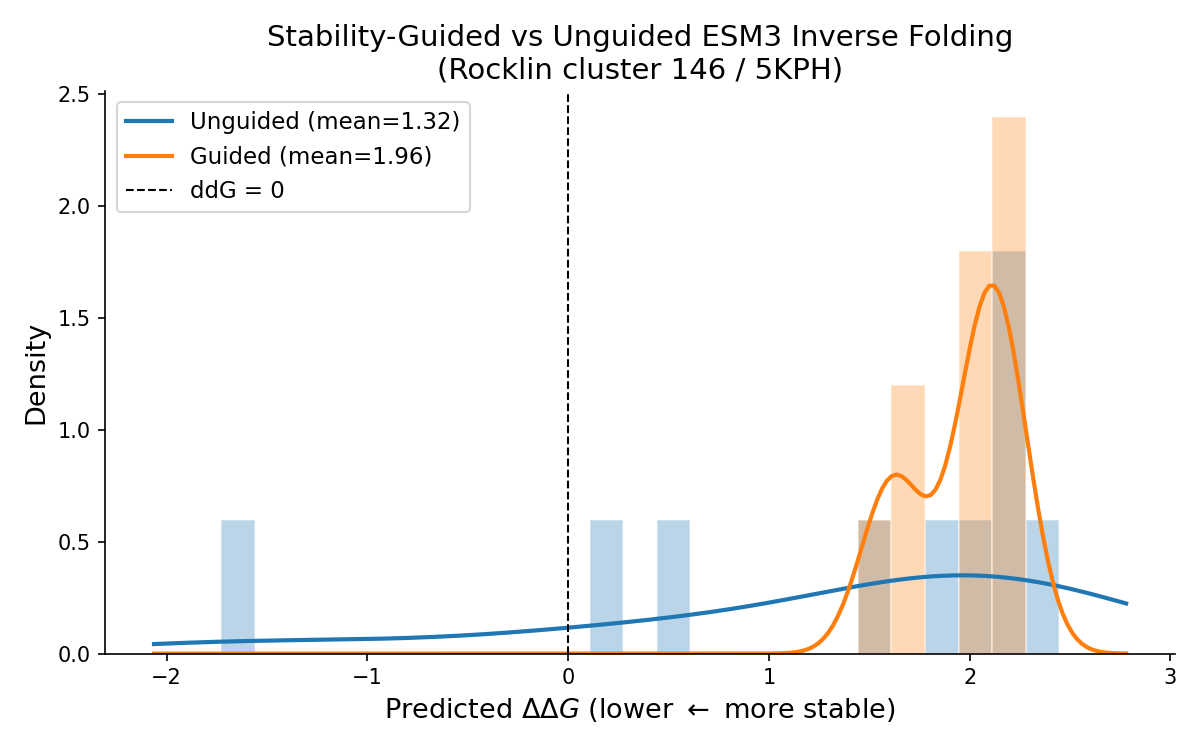
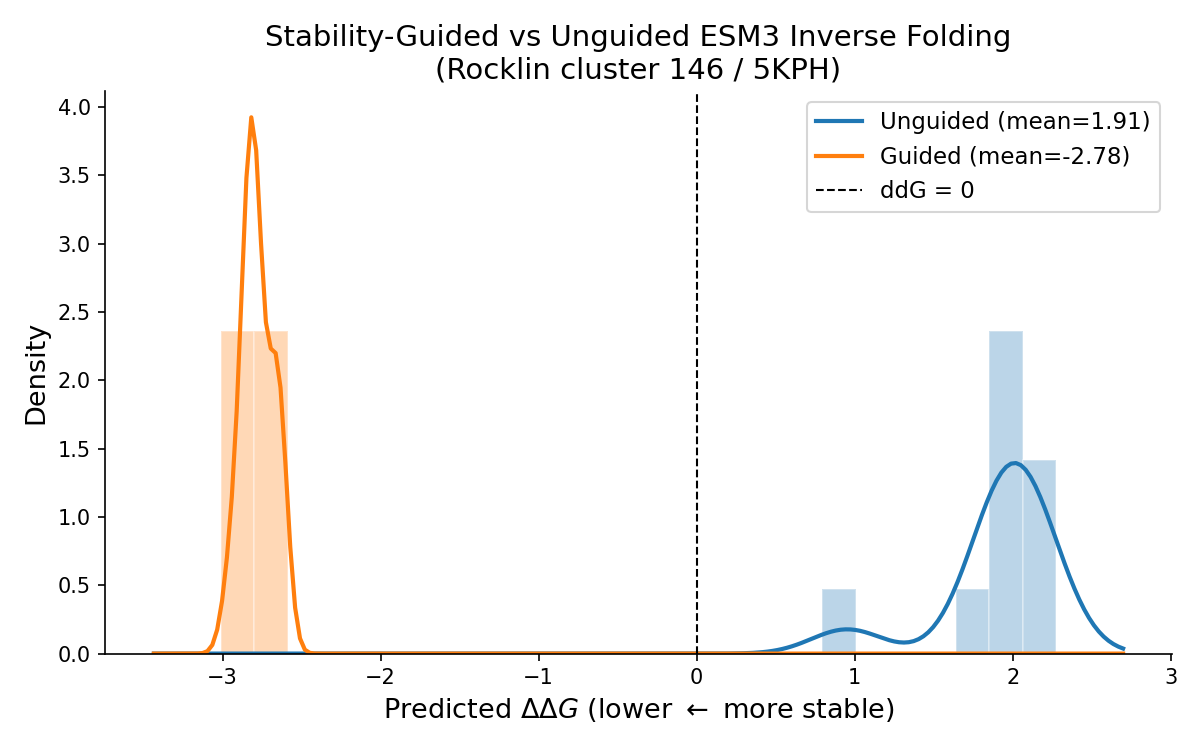
stability guidance patch in progress and updated sampling to allow multiple positions at once for ancestral sampling

diff --git a/src/dfm/sampling.py b/src/dfm/sampling.py
@@ -26,7 +26,10 @@ def tensor_to_string(x_SP, tokenizer):
 
 
 def sample_euler(
-    model: TransitionModel, x_SP: torch.LongTensor | List[str], n_steps: int, return_string=True
+    model: TransitionModel,
+    x_SP: torch.LongTensor | List[str],
+    n_steps: int,
+    return_string=True,
 ):
     if isinstance(x_SP, list):
         x_SP = model.tokenizer(x_SP, padding=True, return_tensors="pt")["input_ids"]
@@ -55,7 +58,10 @@ def sample_euler(
 
 
 def sample_any_order_ancestral(
-    model: TransitionModel, x_SP: torch.LongTensor | List[str], return_string=True
+    model: TransitionModel,
+    x_SP: torch.LongTensor | List[str],
+    n_parallel: int = 1,
+    return_string: bool = True,
 ):
     mask_token_id = model.tokenizer.mask_token_id
     pad_token_id = model.tokenizer.pad_token_id
@@ -75,7 +81,9 @@ def sample_any_order_ancestral(
 
     t = t_st
     while t != t_end:
-        x_SP = any_order_ancestral_step(model.get_log_probs, x_SP, mask_token_id)
+        x_SP = any_order_ancestral_step(
+            model.get_log_probs, x_SP, n_parallel, mask_token_id
+        )
         len_S = x_SP.size(1) - (x_SP == pad_token_id).sum(dim=1)
         t_S = 1 - (x_SP == mask_token_id).sum(dim=1) / len_S
         t_new = t_S.min().item()
@@ -93,6 +101,7 @@ def sample_any_order_ancestral(
 def any_order_ancestral_step(
     transition_log_prob_fn: TransitionFunc,  # is there any reason not to just pass the model here?
     x_SP: torch.LongTensor,
+    n_parallel: int,
     mask_token_id: int,
     next_pos_idx_SP: Optional[torch.LongTensor] = None,
 ) -> torch.FloatTensor:
@@ -105,8 +114,8 @@ def any_order_ancestral_step(
         next_pos_idx_SP = []  # idx tensor for the sequence and pos dimensions, doesn't actually have full SxP shape
         for s in range(x_SP.size(0)):
             masked_positions_S = (x_SP[s] == mask_token_id).nonzero().flatten()
-            if len(masked_positions_S) > 0:
-                rand_idx = random.randint(1, masked_positions_S.size(0)) - 1
+            rand_idxs = torch.randperm(len(masked_positions_S))[:n_parallel]
+            for p in masked_positions_S[rand_idxs]
                 p = masked_positions_S[rand_idx]
                 next_pos_idx_SP.append([s, p])
         next_pos_idx_SP = torch.LongTensor(next_pos_idx_SP)

diff --git a/examples/unconditional_sampling.py b/examples/unconditional_sampling.py
@@ -8,3 +8,4 @@ model = ESMC().cuda()
 initial_x = ["<mask>" * len_sample for _ in range(n_samples)]
 
 gen_sample_seqs = sample_any_order_ancestral(model, initial_x)
+print(gen_sample_seqs)

diff --git a/TODO.md b/TODO.md
@@ -1,4 +1,6 @@
 TODO[pi] integrate with https://github.com/COLA-Laboratory/GraphFLA to get the different fitness landscapes
+- Also FLIP and SaProtHub
+- Models: Progen, Dayhoff, Evodiff, PMPNN, METL, SaProt
 
 - [ ] Test guided sampling
     - [ ] Get a stability guided generation demo
